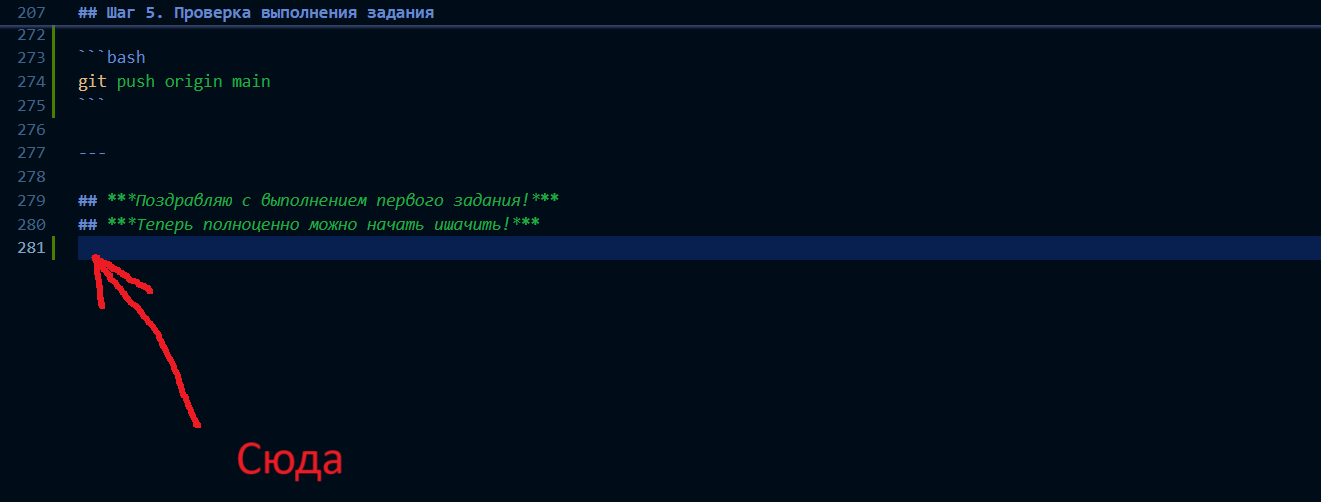
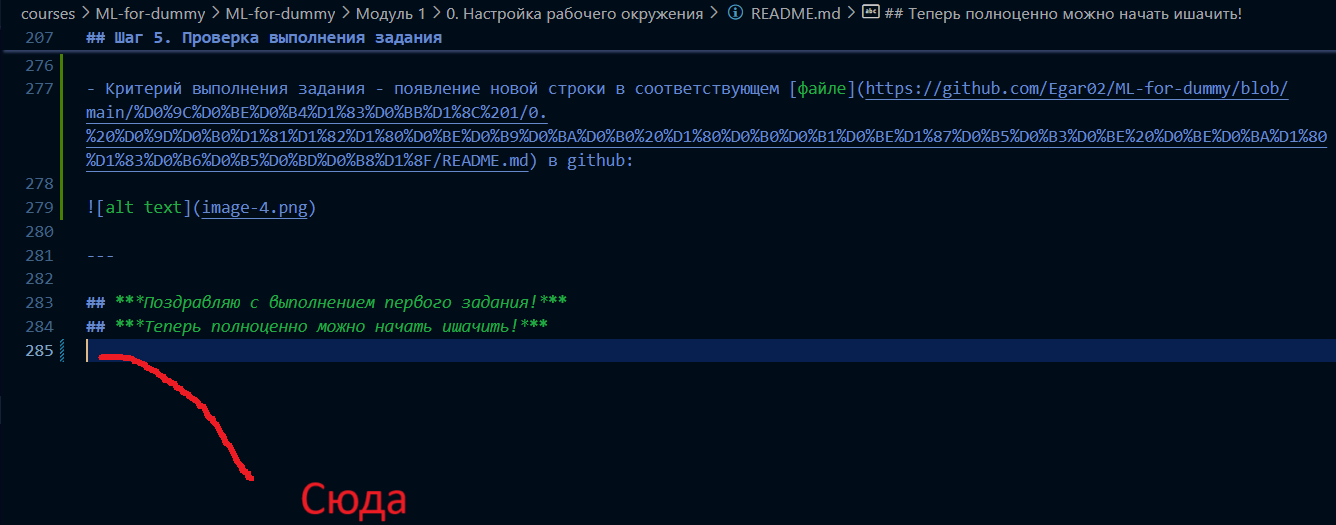
Задание дополнено

Changed region(s): [[0.0, 0.0, 1.0, 0.9861], [0.0, 0.5677, 0.031, 0.6275]]

diff --git a/Модуль 1/0. Настройка рабочего окружения/README.md b/Модуль 1/0. Настройка рабочего окружения/README.md
@@ -274,8 +274,11 @@ git commit -m "Отредактирован файл"
 git push origin main
 ```
 
+- Критерий выполнения задания - появление новой строки в соответствующем [файле](https://github.com/Egar02/ML-for-dummy/blob/main/%D0%9C%D0%BE%D0%B4%D1%83%D0%BB%D1%8C%201/0.%20%D0%9D%D0%B0%D1%81%D1%82%D1%80%D0%BE%D0%B9%D0%BA%D0%B0%20%D1%80%D0%B0%D0%B1%D0%BE%D1%87%D0%B5%D0%B3%D0%BE%20%D0%BE%D0%BA%D1%80%D1%83%D0%B6%D0%B5%D0%BD%D0%B8%D1%8F/README.md) в github:
+
+![alt text](image-4.png)
+
 ---
 
 ## ***Поздравляю с выполнением первого задания!***
 ## ***Теперь полноценно можно начать ишачить!***
-## ***Да, я готов ишачить!***
